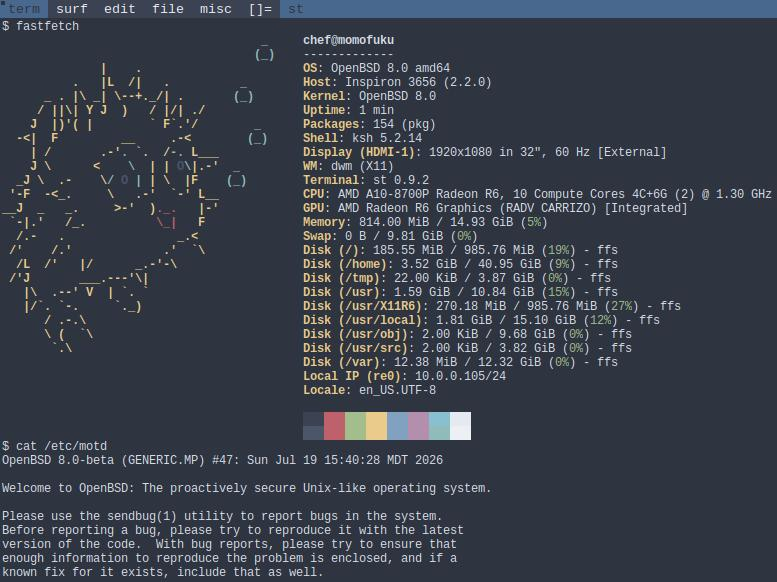
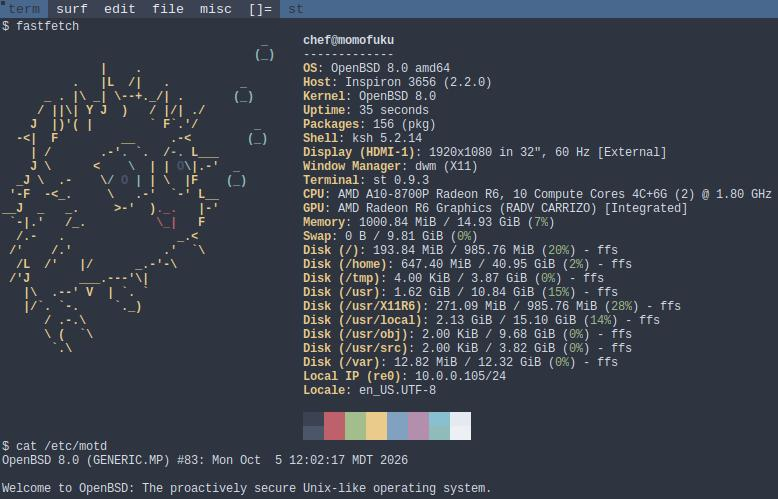
adds and tweaks

diff --git a/README.md b/README.md
@@ -1,4 +1,4 @@
-# OS: OpenBSD 8.0-beta
+# OS: OpenBSD 8.0
 
 https://www.openbsd.org
 
